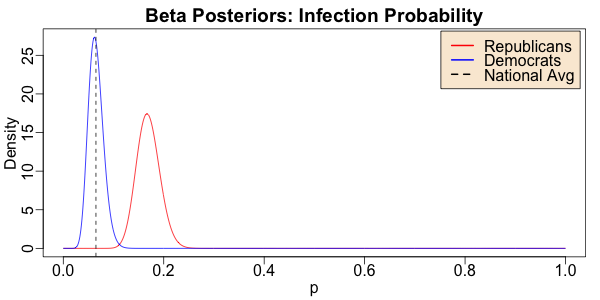
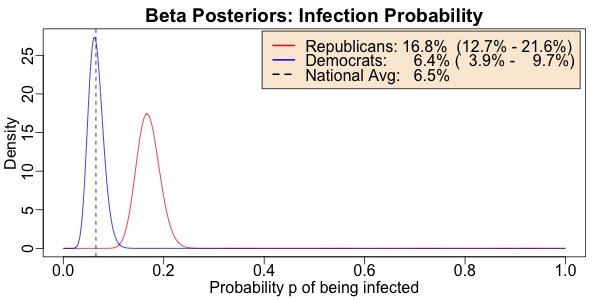
New post

Changed region(s): [[0.42, 0.09, 0.96, 0.3], [0.33, 0.93, 0.72, 0.99]]

diff --git a/_posts/2021-01-14-covid-loves-republicans.md b/_posts/2021-01-14-covid-loves-republicans.md
@@ -40,7 +40,7 @@ anecdotes are terrifying:
 >  
 >"Epidemiologists who know how to steer this plane are pounding on the cockpit door begging him to please listen, please follow the evidence," Feigl-Ding said. "It’s a living nightmare."  
 
-Living nightmare?  Yup.  Checks out.  
+Living nightmare?  Yep.  Checks out.  
 
 <img src="{{ site.baseurl }}/images/2021-01-14-covid-loves-republicans-usa-today-2.jpg" width="400" height="256" alt="USA Today: COVID transmission @ 2020-Sep-26 Rose Garden ceremony for now-Justice Barrett" title="USA Today: COVID transmission @ 2020-Sep-26 Rose Garden ceremony for now-Justice Barrett" style="float: right; margin: 3px 3px 3px 3px; border: 1px solid #000000;"/>
 And it's not hard to see why epidemiologists feel this way.  Consider this photo of the
@@ -84,13 +84,13 @@ For each chamber, they report:
 | _Democrats_    |   211       ||   15         |
 
 There are a couple anomalies here:  
-- The total number of Senators tracked here is 99, instead of 100.  
+- The total number of Senators tracked here is 99, instead of 100.  Who's missing?  
 - The total number of Representatives tracked here is 439, instead of 435.  The _NYT_
-  article mentions that totals "include five delegates and one resident commissioner".
+  figure caption mentions that totals "include five delegates and one resident commissioner".
   That's 6 extras, whereas we have only 4 extras, so the explanation isn't exact.  But it
   acknowledges that we shouldn't hit _exactly_ 435.  
   
-Little nits like this are how you know the data is real, sadly enough.  
+Little nits like this are how you know the data is _real_, sadly enough.  
 
 
 ## Analysis  
@@ -148,7 +148,7 @@ sample estimates:
 
 Finally, Keefe's article notes that the background against which this should be compared
 is the national average of the COVID-19 infection rate, estimated at 6.5%.  The infection
-rates in each party can be calculated pretty straightforwardly:  
+rates in each party's politicians can be calculated pretty straightforwardly:  
 ```R
 > transform(mx, PctInfected = round(100.0 * Infected / (Healthy + Infected), digits = 1))
             Healthy Infected PctInfected
@@ -176,10 +176,12 @@ $$
 
 ```R
 > source("~/Documents/laboratory/tools/graphics-tools.r")
-> ps <- seq(from = 0, to = 1, length.out = 1000)
-> repubs <- dbeta(ps, shape1 = nRepubInfected + 1, shape2 = nRepub - nRepubInfected + 1)
-> dems   <- dbeta(ps, shape1 = nDemoInfected  + 1, shape2 = nDemo  - nDemoInfected  + 1)
-> withPNG("../images/2021-01-14-covid-loves-republicans-infection-rates.png", 600, 300, FALSE, function() { withPars(function() { matplot(ps, matrix(c(repubs, dems), byrow = FALSE, ncol = 2), type = "l", lty = "solid", col = c("red", "blue"), xlab = "p", ylab = "Density", main = "Beta Posteriors: Infection Probability"); abline(v = 0.065, lty = "dashed", col = "black"); legend("topright", inset = 0.01, bg = "antiquewhite", legend = c("Republicans", "Democrats", "National Avg"), col = c("red", "blue", "black"), lty = c("solid", "solid", "dashed"), lwd = 2) }, pty = "m", bg = "transparent", ps = 16, mar = c(3, 3, 2, 1), mgp = c(1.7, 0.5, 0)) })
+> ps      <- seq(from = 0, to = 1, length.out = 1000)
+> repubs  <- dbeta(ps, shape1 = nRepubInfected + 1, shape2 = nRepub - nRepubInfected + 1)
+> dems    <- dbeta(ps, shape1 = nDemoInfected  + 1, shape2 = nDemo  - nDemoInfected  + 1)
+> repubqs <- 100.0 * qbeta(p = c(0.025, 0.50, 0.975), shape1 = nRepubInfected + 1, shape2 = nRepub - nRepubInfected + 1)
+> demqs   <- 100.0 * qbeta(p = c(0.025, 0.50, 0.975), shape1 = nDemoInfected  + 1, shape2 = nDemo  - nDemoInfected  + 1)
+> withPNG("../images/2021-01-14-covid-loves-republicans-infection-rates.png", 600, 300, FALSE, function() { withPars(function() { matplot(ps, matrix(c(repubs, dems), byrow = FALSE, ncol = 2), type = "l", lty = "solid", col = c("red", "blue"), xlab = "Probability p of being infected", ylab = "Density", main = "Beta Posteriors: Infection Probability"); abline(v = 0.065, lty = "dashed", col = "black"); legend("topright", inset = 0.01, bg = "antiquewhite", legend = c(sprintf("Republicans: %4.1f%%  (%4.1f%% - %4.1f%%)", repubqs[[2]], repubqs[[1]], repubqs[[3]]), sprintf("Democrats:     %4.1f%% ( %4.1f%% -   %4.1f%%)", demqs[[2]], demqs[[1]], demqs[[3]]), "National Avg:   6.5%"), col = c("red", "blue", "black"), lty = c("solid", "solid", "dashed"), lwd = 2) }, pty = "m", bg = "transparent", ps = 16, mar = c(3, 3, 2, 1), mgp = c(1.7, 0.5, 0)) })
 ```
 
 <a href="{{ site.baseurl }}/images/2021-01-14-covid-loves-republicans-infection-rates.png" target="_blank"><img src="{{ site.baseurl }}/images/2021-01-14-covid-loves-republicans-infection-rates.png" width="400" height="200" alt="Beta posteriors: infection probabilities of Republicans vs Democrats" title="Beta posteriors: infection probabilities of Republicans vs Democrats" style="float: right; margin: 3px 3px 3px 3px; border: 1px solid #000000;"></a>
@@ -189,6 +191,9 @@ $$
   being infected; obviously it peaks right around the national average.  
 - The red curve shows the same thing for Republican politicians: they're clearly _far_ more likely to
   have COVID-19 than either Democratic politicians, or Americans in general.  
+- The legend gives for each group's probability of infection: the median (best single
+  point estimate) and the 95% confidence limit.  Note that the 95% confidence limits of
+  the 2 parties don't even overlap; Republicans are _definitely_ more infected.  
 
 In fact, there is only _a couple chances in a billion_ that the Republican infection rate
 is actually comparable to or lower than the national average of 6.5%:  
